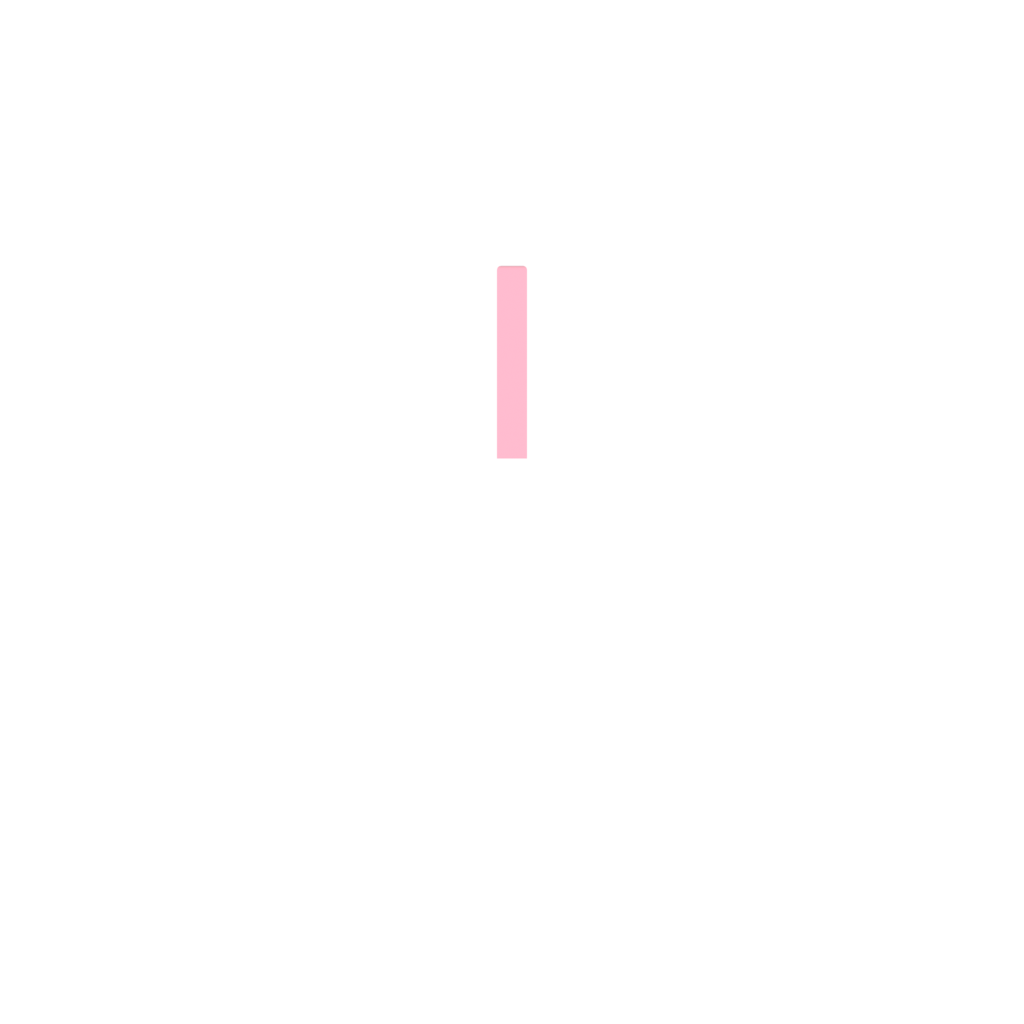
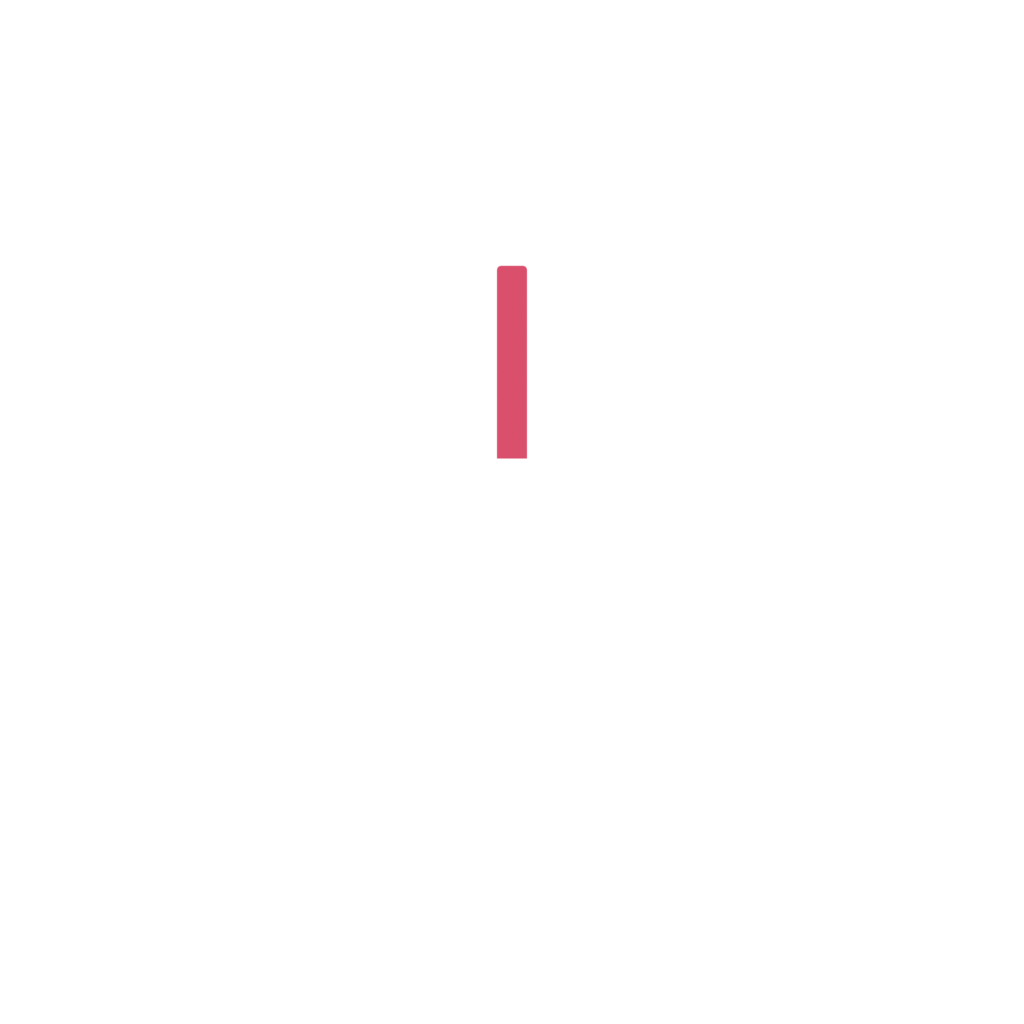
png-state-aligner: knob indicator fully opaque + saturated red
Rendered the indicator with pure emission and lights disabled so color
stays deep rose-red (217,79,108) instead of getting washed to pale pink
by key/fill/rim lights. Set globalAlpha back to 1.0 — "less opacity
= I can see through too much" meant the line was fading into the body.

Changed region(s): [[0.4688, 0.25, 0.5312, 0.4688]]

diff --git a/agents/png-state-aligner/index.html b/agents/png-state-aligner/index.html
@@ -1572,7 +1572,7 @@ function render() {
         const angle = (-135 + 270 * v) * Math.PI / 180;
         const cx = rx + rw / 2, cy = ry + rh / 2;
         ctx.save();
-        ctx.globalAlpha = 0.5;
+        ctx.globalAlpha = 1.0;
         ctx.translate(cx, cy);
         ctx.rotate(angle);
         ctx.drawImage(state.imgKnobIndicator, -rw / 2, -rh / 2, rw, rh);
